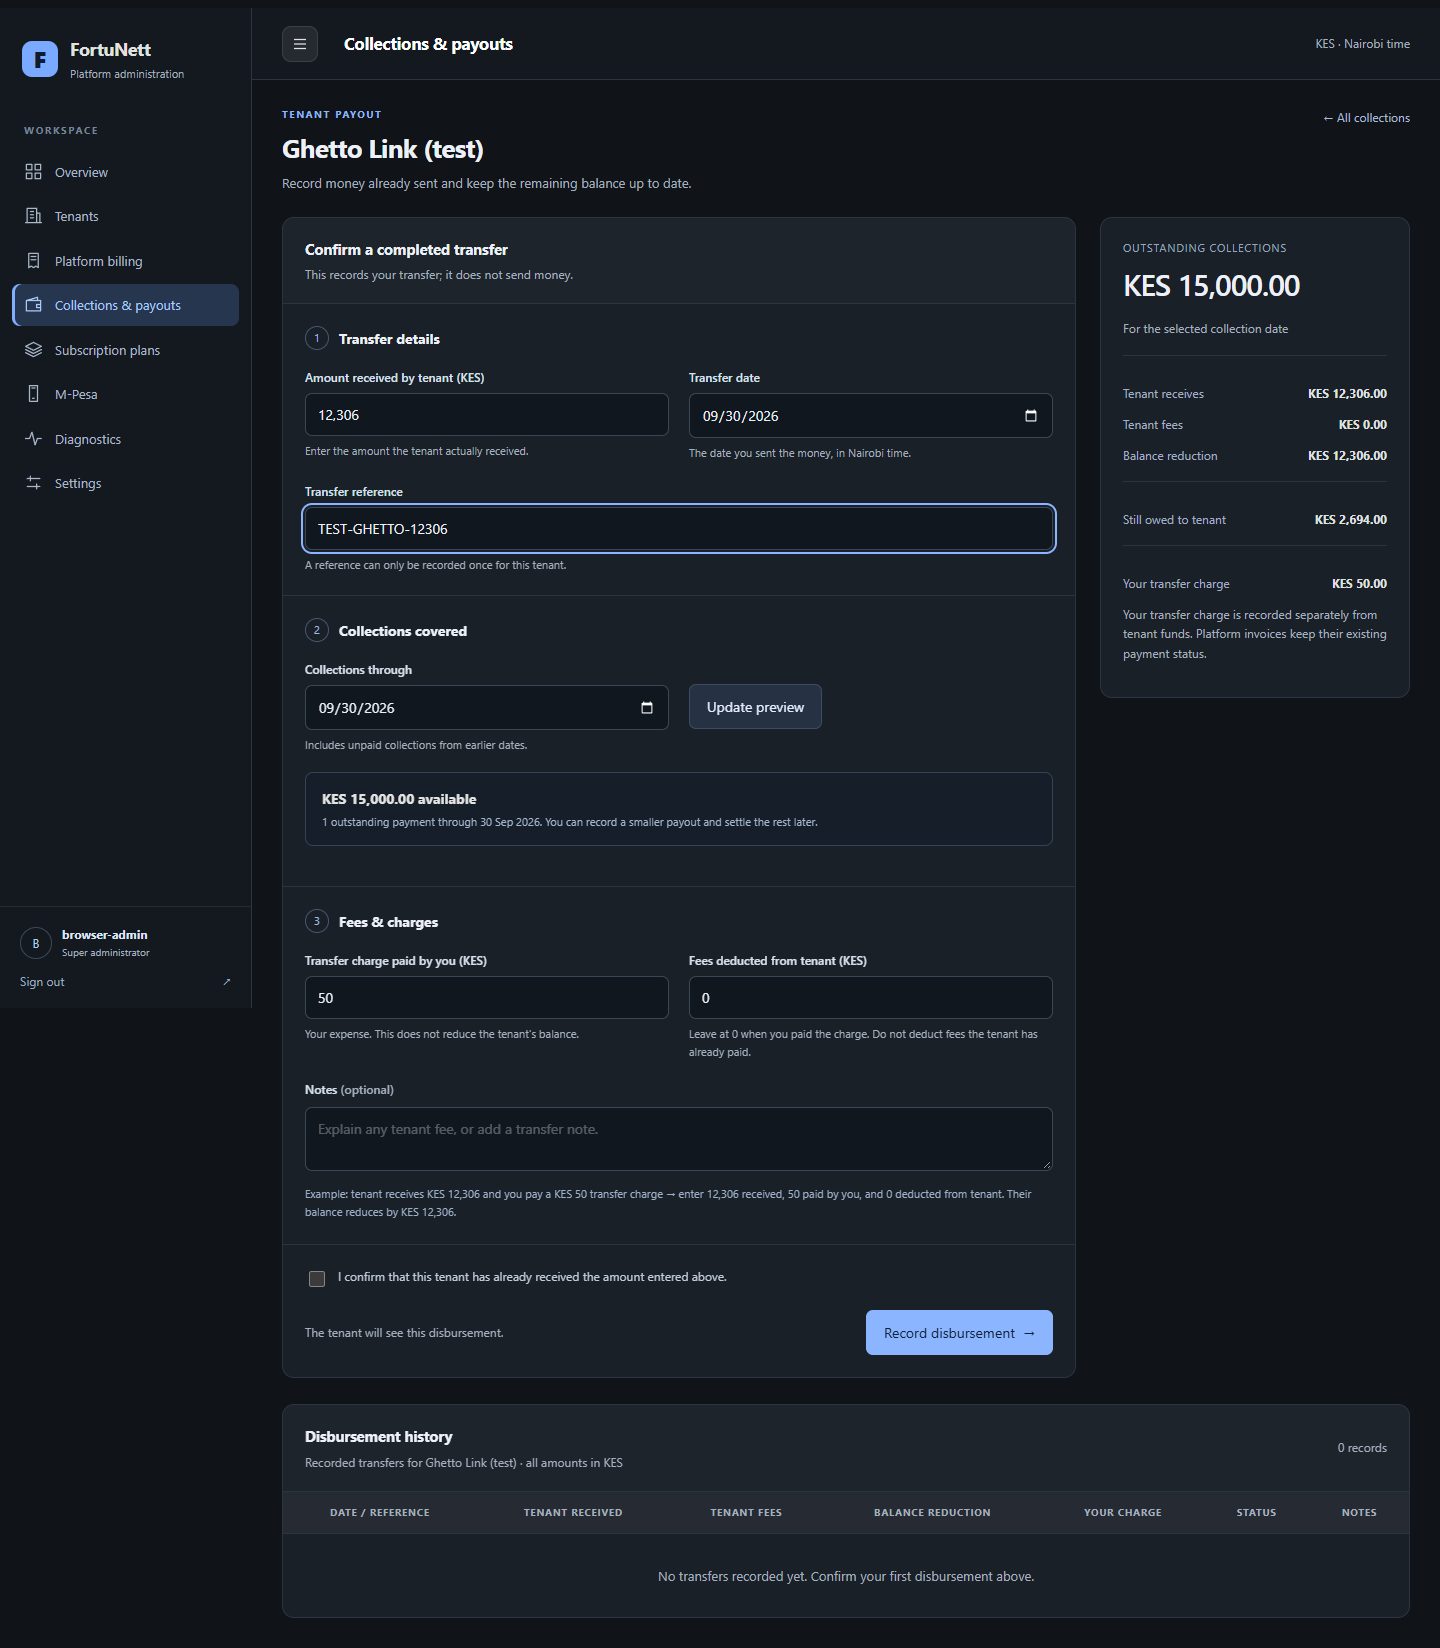
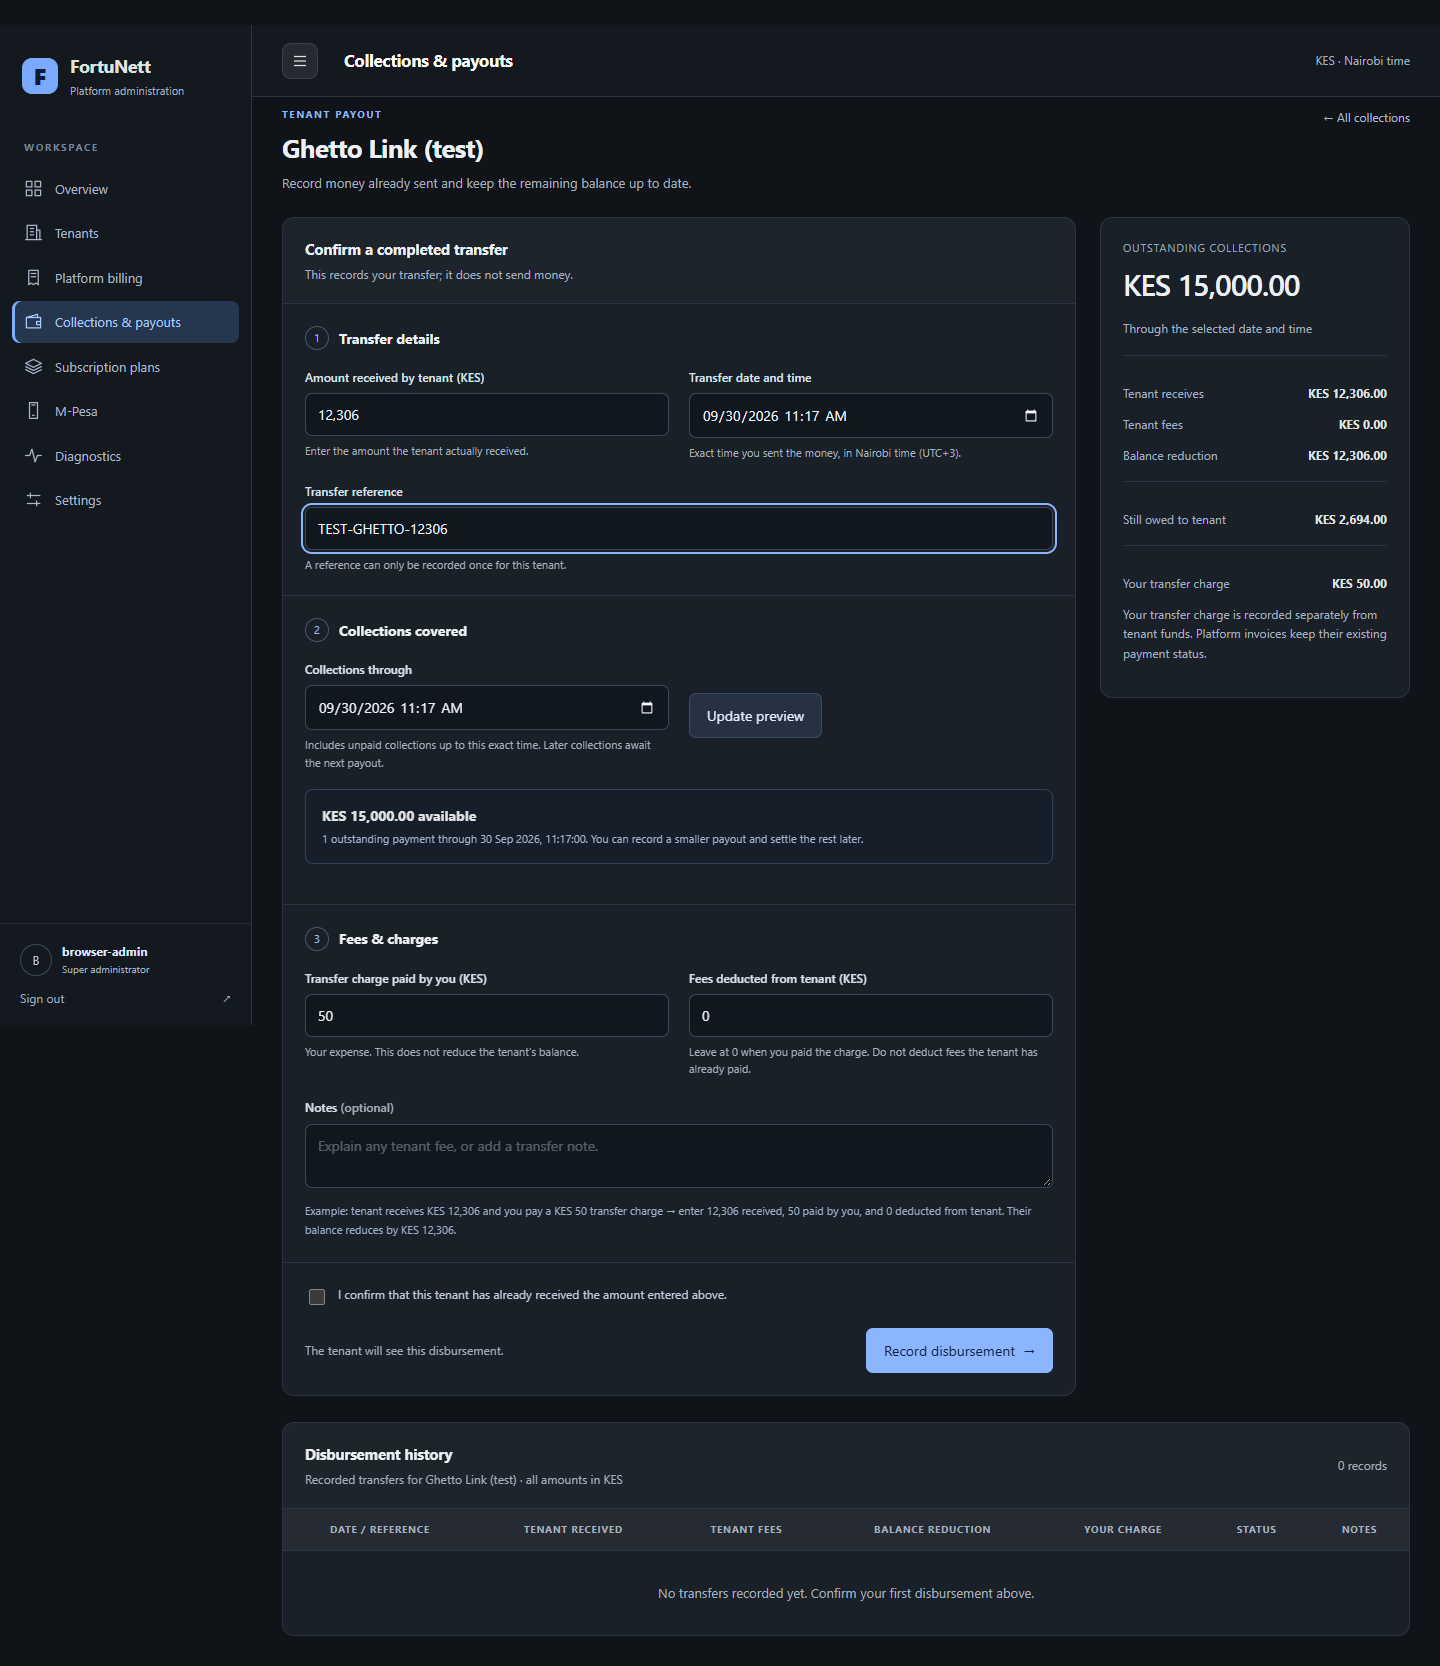
feat: implement payout balance calculations and enhance disbursement forms

diff --git a/tools/test_disbursement_browser.js b/tools/test_disbursement_browser.js
@@ -19,6 +19,12 @@ const fs = require('fs');
         await page.locator('#sa-show-password').click();
         await Promise.all([page.waitForURL('**/disbursements.php?tenant_id=9'),page.locator('#sa-login-submit').click()]);
         assert(await page.locator('#record-heading').isVisible());
+        assert.equal(await page.locator('#cutoff_date').getAttribute('type'), 'datetime-local');
+        await page.locator('#disbursed_at').fill('2026-09-30T11:17');
+        await page.locator('#cutoff_date').fill('2026-09-30T11:17');
+        assert(await page.locator('#preview-stale').isVisible());
+        await Promise.all([page.waitForNavigation(),page.locator('button[value=preview]').click()]);
+        assert.equal(await page.locator('[name=preview_cutoff]').inputValue(), '2026-09-30 11:17:00');
         await page.locator('#cash_amount').fill('12,306');
         await page.locator('#platform_cost').fill('50');
         await page.locator('#reference').fill('TEST-GHETTO-12306');

diff --git a/super_admin/includes/disbursements_view.php b/super_admin/includes/disbursements_view.php
@@ -4,7 +4,7 @@
 <meta name="theme-color" content="#101318"><link rel="icon" href="/favicon.svg" type="image/svg+xml">
 <title>Disbursements · <?= dh($name) ?> · FortuNett</title>
 <link rel="stylesheet" href="css/dark.css?v=2"><link rel="stylesheet" href="css/shell.css?v=2"><link rel="stylesheet" href="css/admin.css?v=1">
-<script src="js/shell.js?v=2" defer></script><script src="js/disbursements.js?v=1" defer></script>
+<script src="js/shell.js?v=2" defer></script><script src="js/disbursements.js?v=2" defer></script>
 </head><body class="sa-shell">
 <?php include __DIR__ . '/navigation.php'; ?>
 <div class="main"><header class="topbar"><h1>Collections &amp; payouts</h1><span class="sa-subtle">KES · Nairobi time</span></header>
@@ -15,7 +15,7 @@
 <div class="sa-dsb-layout">
     <section class="card" aria-labelledby="record-heading">
         <div class="card-head"><div><h2 id="record-heading">Confirm a completed transfer</h2><p>This records your transfer; it does not send money.</p></div></div>
-        <form method="post" id="disbursement-form" data-available="<?= number_format($gross, 2, '.', '') ?>" data-preview-date="<?= dh(substr($cutoff, 0, 10)) ?>">
+        <form method="post" id="disbursement-form" data-available="<?= number_format($gross, 2, '.', '') ?>" data-preview-date="<?= dh(str_replace(' ', 'T', substr($cutoff, 0, 16))) ?>">
             <input type="hidden" name="csrf" value="<?= dh($_SESSION['disbursement_csrf']) ?>">
             <input type="hidden" name="preview_cutoff" value="<?= dh($cutoff) ?>">
             <input type="hidden" name="expected_gross" value="<?= number_format($gross, 2, '.', '') ?>">
@@ -24,18 +24,18 @@
                 <div class="sa-section-title"><span class="sa-step" aria-hidden="true">1</span><h3>Transfer details</h3></div>
                 <div class="sa-form-grid">
                     <div class="sa-field"><label for="cash_amount">Amount received by tenant (KES)</label><input id="cash_amount" name="cash_amount" inputmode="decimal" placeholder="e.g. 12,306.00" value="<?= dh($form['cash_amount']) ?>" required aria-describedby="cash-help"><small id="cash-help">Enter the amount the tenant actually received.</small></div>
-                    <div class="sa-field"><label for="disbursed_at">Transfer date</label><input type="date" id="disbursed_at" name="disbursed_at" max="<?= $today ?>" value="<?= dh($form['disbursed_at']) ?>" required><small>The date you sent the money, in Nairobi time.</small></div>
+                    <div class="sa-field"><label for="disbursed_at">Transfer date and time</label><input type="datetime-local" id="disbursed_at" name="disbursed_at" max="<?= $nowLocal ?>" value="<?= dh($form['disbursed_at']) ?>" required><small>Exact time you sent the money, in Nairobi time (UTC+3).</small></div>
                     <div class="sa-field sa-field-wide"><label for="reference">Transfer reference</label><input id="reference" name="reference" maxlength="100" placeholder="M-Pesa code or bank transfer reference" value="<?= dh($form['reference']) ?>" required autocomplete="off"><small>A reference can only be recorded once for this tenant.</small></div>
                 </div>
             </div>
             <div class="sa-section">
                 <div class="sa-section-title"><span class="sa-step" aria-hidden="true">2</span><h3>Collections covered</h3></div>
                 <div class="sa-form-grid">
-                    <div class="sa-field"><label for="cutoff_date">Collections through</label><input type="date" id="cutoff_date" name="cutoff_date" max="<?= $today ?>" value="<?= dh($form['cutoff_date']) ?>" required><small>Includes unpaid collections from earlier dates.</small></div>
+                    <div class="sa-field"><label for="cutoff_date">Collections through</label><input type="datetime-local" id="cutoff_date" name="cutoff_date" max="<?= $nowLocal ?>" value="<?= dh($form['cutoff_date']) ?>" required><small>Includes unpaid collections up to this exact time. Later collections await the next payout.</small></div>
                     <div class="sa-field" style="align-self:center;"><button class="sa-btn sa-btn-secondary" type="submit" name="action" value="preview" formnovalidate>Update preview</button></div>
                 </div>
-                <div class="sa-preview"><strong>KES <?= number_format($gross, 2) ?> available</strong><p><?= count($rows) ?> outstanding payment<?= count($rows) === 1 ? '' : 's' ?> through <?= dh(date('d M Y', strtotime($cutoff))) ?>. You can record a smaller payout and settle the rest later.</p></div>
-                <p class="sa-subtle" id="preview-stale" hidden>The collection date changed. Update the preview before saving.</p>
+                <div class="sa-preview"><strong>KES <?= number_format($gross, 2) ?> available</strong><p><?= count($rows) ?> outstanding payment<?= count($rows) === 1 ? '' : 's' ?> through <?= dh(date('d M Y, H:i:s', strtotime($cutoff))) ?>. You can record a smaller payout and settle the rest later.</p></div>
+                <p class="sa-subtle" id="preview-stale" hidden>The collection date or time changed. Update the preview before saving.</p>
             </div>
             <div class="sa-section">
                 <div class="sa-section-title"><span class="sa-step" aria-hidden="true">3</span><h3>Fees &amp; charges</h3></div>
@@ -54,7 +54,7 @@
         </form>
     </section>
     <aside class="card sa-dsb-summary" aria-labelledby="summary-heading"><div class="card-body">
-        <div class="sa-summary-label" id="summary-heading">Outstanding collections</div><div class="sa-summary-amount">KES <?= number_format($gross, 2) ?></div><p class="sa-subtle">For the selected collection date</p>
+        <div class="sa-summary-label" id="summary-heading">Outstanding collections</div><div class="sa-summary-amount">KES <?= number_format($gross, 2) ?></div><p class="sa-subtle">Through the selected date and time</p>
         <div class="sa-summary-total">
             <div class="sa-summary-row"><span>Tenant receives</span><strong class="sa-numbers" id="summary-cash">KES 0.00</strong></div>
             <div class="sa-summary-row"><span>Tenant fees</span><strong class="sa-numbers" id="summary-fees">KES 0.00</strong></div>
@@ -66,7 +66,7 @@
 </div>
 <section class="card" aria-labelledby="history-heading"><div class="card-head"><div><h2 id="history-heading">Disbursement history</h2><p>Recorded transfers for <?= dh($name) ?> · all amounts in KES</p></div><span class="sa-subtle"><?= count($history) ?> record<?= count($history) === 1 ? '' : 's' ?></span></div>
 <div class="table-wrap" tabindex="0" role="region" aria-label="Disbursement history"><table><thead><tr><th>Date / reference</th><th>Tenant received</th><th>Tenant fees</th><th>Balance reduction</th><th>Your charge</th><th>Status</th><th>Notes</th></tr></thead><tbody>
-<?php foreach ($history as $h): ?><tr><td><div><?= dh(date('d M Y', strtotime($h['disbursed_at']))) ?></div><div class="sa-history-reference"><?= dh($h['reference']) ?></div></td><td class="sa-numbers"><?= number_format($h['cash_amount'], 2) ?></td><td class="sa-numbers"><?= number_format($h['fees_amount'], 2) ?></td><td class="sa-numbers"><?= number_format($h['gross_amount'], 2) ?></td><td class="sa-numbers"><?= number_format($h['platform_cost'], 2) ?></td><td><span class="sa-status-pill">Disbursed</span></td><td><?= dh($h['notes']) ?></td></tr><?php endforeach; ?>
+<?php foreach ($history as $h): ?><tr><td><div><?= dh(date('d M Y, H:i', strtotime($h['disbursed_at']))) ?></div><div class="sa-history-reference"><?= dh($h['reference']) ?></div></td><td class="sa-numbers"><?= number_format($h['cash_amount'], 2) ?></td><td class="sa-numbers"><?= number_format($h['fees_amount'], 2) ?></td><td class="sa-numbers"><?= number_format($h['gross_amount'], 2) ?></td><td class="sa-numbers"><?= number_format($h['platform_cost'], 2) ?></td><td><span class="sa-status-pill">Disbursed</span></td><td><?= dh($h['notes']) ?></td></tr><?php endforeach; ?>
 <?php if (!$history): ?><tr><td colspan="7" class="sa-empty">No transfers recorded yet. Confirm your first disbursement above.</td></tr><?php endif; ?>
 </tbody></table></div></section>
 </main></div></body></html>

diff --git a/tools/test_disbursements_mysql.php b/tools/test_disbursements_mysql.php
@@ -90,5 +90,23 @@ try {
         }
     }
     checkDisbursement($pdo->query('SELECT COUNT(*) FROM tenant_disbursement_items')->fetchColumn() === $ledgerBefore, 'SQL migration is repeatable and preserves existing payout history');
+    // Exact payout-time boundary: no later same-day collection may be released.
+    $pdo->exec("INSERT INTO payments(id,tenant_id,amount,collection_type,status,payment_date,created_at) VALUES
+        (10,1,100,'platform','completed','2026-09-30 11:16:59','2026-09-30 11:16:59'),
+        (11,1,200,'platform','completed','2026-09-30 11:17:00','2026-09-30 11:17:00'),
+        (12,1,854,'platform','completed','2026-09-30 11:17:01','2026-09-30 11:17:01')");
+    $timed = array_merge($input, ['reference'=>'TIMED-PAYOUT','cutoff'=>'2026-09-30T11:17',
+        'disbursed_at'=>'2026-09-30T11:17','cash_amount'=>'300','fees_amount'=>'0','expected_gross'=>'300','expected_count'=>2]);
+    checkDisbursement(rejectDisbursement(fn()=>recordDisbursement($pdo,1,9,array_merge($timed,['cutoff'=>'2026-09-30T11:18']))), 'cutoff later than transfer on the same day rejected');
+    recordDisbursement($pdo,1,9,$timed);
+    checkDisbursement($pdo->query("SELECT COUNT(*) FROM payments WHERE id IN (10,11) AND released_at='2026-09-30 11:17:00'")->fetchColumn() == 2, 'collections through 11:17 are marked disbursed at the exact transfer time');
+    checkDisbursement($pdo->query('SELECT released_at FROM payments WHERE id=12')->fetchColumn() === null, 'collection one second after cutoff awaits next payout');
+    $balanceQuery->execute([1]);
+    checkDisbursement((float)$balanceQuery->fetchColumn() === 854.0, 'tenant billing retains later same-day collections');
+    $dashboard = file_get_contents(__DIR__ . '/../dashboard.php');
+    preg_match('/prepare\("(SELECT\s+COALESCE\(SUM\(CASE WHEN released_at IS NULL.*?collection_type = \'platform\')"\)/s', $dashboard, $dashboardSql);
+    $dashboardQuery = $pdo->prepare($dashboardSql[1]); $dashboardQuery->execute([1]);
+    $balances = $dashboardQuery->fetch(PDO::FETCH_ASSOC);
+    checkDisbursement((float)$balances['awaiting'] === 854.0 && (float)$balances['disbursed'] === 1400.0, 'tenant dashboard agrees with payout and billing balances');
     echo "$checks checks passed.\n";
 } finally { $pdo->exec("DROP DATABASE `$schema`"); }

diff --git a/dashboard.php b/dashboard.php
@@ -72,6 +72,21 @@ try {
     $reg_data_json = '[]';
 }
 
+// Settlement balances are separate from earned revenue and include prior months.
+$payoutBalances = null;
+try {
+    require_once __DIR__ . '/includes/disbursements.php';
+    ensureDisbursementBalance($db);
+    $stmt = $db->prepare("SELECT
+        COALESCE(SUM(CASE WHEN released_at IS NULL THEN amount - disbursed_amount ELSE 0 END),0) AS awaiting,
+        COALESCE(SUM(CASE WHEN released_at IS NOT NULL THEN amount ELSE disbursed_amount END),0) AS disbursed
+        FROM payments WHERE tenant_id = ? AND status = 'completed' AND collection_type = 'platform'");
+    $stmt->execute([$tenant_id]);
+    $payoutBalances = $stmt->fetch(PDO::FETCH_ASSOC);
+} catch (Throwable $e) {
+    error_log('Dashboard payout balances: ' . $e->getMessage());
+}
+
 include 'includes/header.php';
 include 'includes/sidebar.php';
 ?>
@@ -471,6 +486,19 @@ include 'includes/sidebar.php';
                 </a>
             </div>
         </div>
+
+        <section class="quick-actions" aria-label="Collection settlement">
+            <h2 class="section-title">Collections &amp; payouts</h2>
+            <?php if ($payoutBalances !== null): ?>
+            <div class="actions-grid">
+                <a class="action-btn" href="billing.php">Awaiting disbursement: <strong>KES <?= number_format((float)$payoutBalances['awaiting'], 2) ?></strong></a>
+                <a class="action-btn" href="billing.php">Disbursed to you: <strong>KES <?= number_format((float)$payoutBalances['disbursed'], 2) ?></strong></a>
+            </div>
+            <p class="dashboard-subtitle">Includes previous months. Collections after a payout cutoff await the next payout. <a href="billing.php">View payout history</a></p>
+            <?php else: ?>
+            <p class="dashboard-subtitle">Payout balances are currently unavailable. <a href="billing.php">View billing</a></p>
+            <?php endif; ?>
+        </section>
 
         <!-- Revenue Analytics -->
         <div class="metrics-section">

diff --git a/super_admin/disbursements.php b/super_admin/disbursements.php
@@ -10,10 +10,11 @@ $st->execute([$tenantId]);
 $name = $st->fetchColumn();
 if (!$name) { http_response_code(404); exit('Tenant not found.'); }
 $today = (new DateTimeImmutable('now', new DateTimeZone('Africa/Nairobi')))->format('Y-m-d');
-$form = array_merge(['cutoff_date'=>$today, 'disbursed_at'=>$today, 'cash_amount'=>'',
+$nowLocal = (new DateTimeImmutable('now', new DateTimeZone('Africa/Nairobi')))->format('Y-m-d\TH:i');
+$form = array_merge(['cutoff_date'=>$nowLocal, 'disbursed_at'=>$nowLocal, 'cash_amount'=>'',
     'fees_amount'=>'0', 'platform_cost'=>'0', 'reference'=>'', 'notes'=>''], $_POST);
 $error = ''; $success = ''; $schemaReady = false; $rows = []; $history = []; $gross = 0;
-$cutoff = disbursementDate($today, 'Collections through');
+$cutoff = disbursementDate($nowLocal, 'Collections through');
 try {
     ensureDisbursementSchema($pdo);
     $schemaReady = true;
@@ -25,8 +26,8 @@ try {
         if (($_POST['action'] ?? '') === 'record') {
             if (empty($_POST['confirmed'])) throw new InvalidArgumentException('Confirm that the tenant has already received this money.');
             $snapshot = disbursementDate((string)($_POST['preview_cutoff'] ?? ''), 'Preview date');
-            if (substr($snapshot, 0, 10) !== $form['cutoff_date']) {
-                throw new InvalidArgumentException('Update the collections preview for your selected date before saving.');
+            if ($snapshot !== $cutoff) {
+                throw new InvalidArgumentException('Update the collections preview for your selected date and time before saving.');
             }
             $input = $_POST;
             $input['cutoff'] = $snapshot;

diff --git a/includes/disbursements.php b/includes/disbursements.php
@@ -74,7 +74,7 @@ function disbursementPayments(PDO $pdo, int $tenantId, string $cutoff, bool $loc
     $st = $pdo->prepare("SELECT id, amount AS original_amount, amount - disbursed_amount AS amount FROM payments
         WHERE tenant_id = ? AND collection_type = 'platform' AND status = 'completed'
           AND released_at IS NULL AND amount > disbursed_amount AND payment_date <= ? AND created_at <= ?
-        ORDER BY id" . ($lock ? ' FOR UPDATE' : ''));
+        ORDER BY payment_date, id" . ($lock ? ' FOR UPDATE' : ''));
     $st->execute([$tenantId, $cutoff, $cutoff]);
     return $st->fetchAll(PDO::FETCH_ASSOC);
 }
@@ -85,7 +85,7 @@ function recordDisbursement(PDO $pdo, int $tenantId, int $actorId, array $input)
     $notes = trim($input['notes'] ?? '');
     $cutoff = disbursementDate((string)($input['cutoff'] ?? ''), 'Collections through');
     $paidAt = disbursementDate((string)($input['disbursed_at'] ?? ''), 'Transfer date');
-    if (substr($cutoff, 0, 10) > substr($paidAt, 0, 10)) throw new InvalidArgumentException('Collections through must be on or before the transfer date.');
+    if ($cutoff > $paidAt) throw new InvalidArgumentException('Collections through must be on or before the transfer date and time.');
     if ($tenantId <= 0 || $actorId <= 0 || $reference === '' || strlen($reference) > 100 || strlen($notes) > 255) {
         throw new InvalidArgumentException('A tenant and transfer reference are required (reference: 100 characters; notes: 255).');
     }
